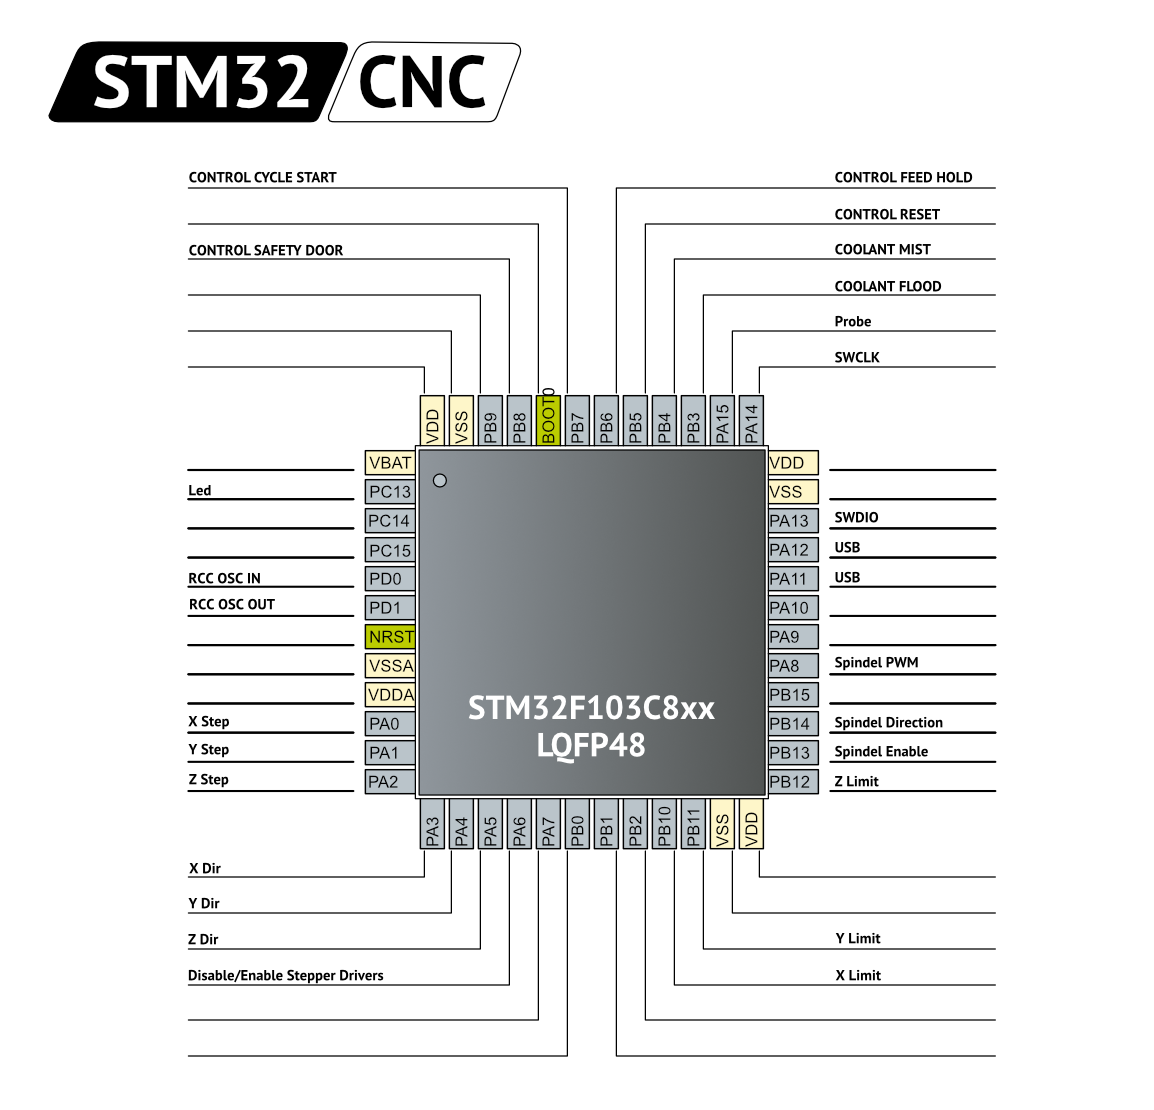
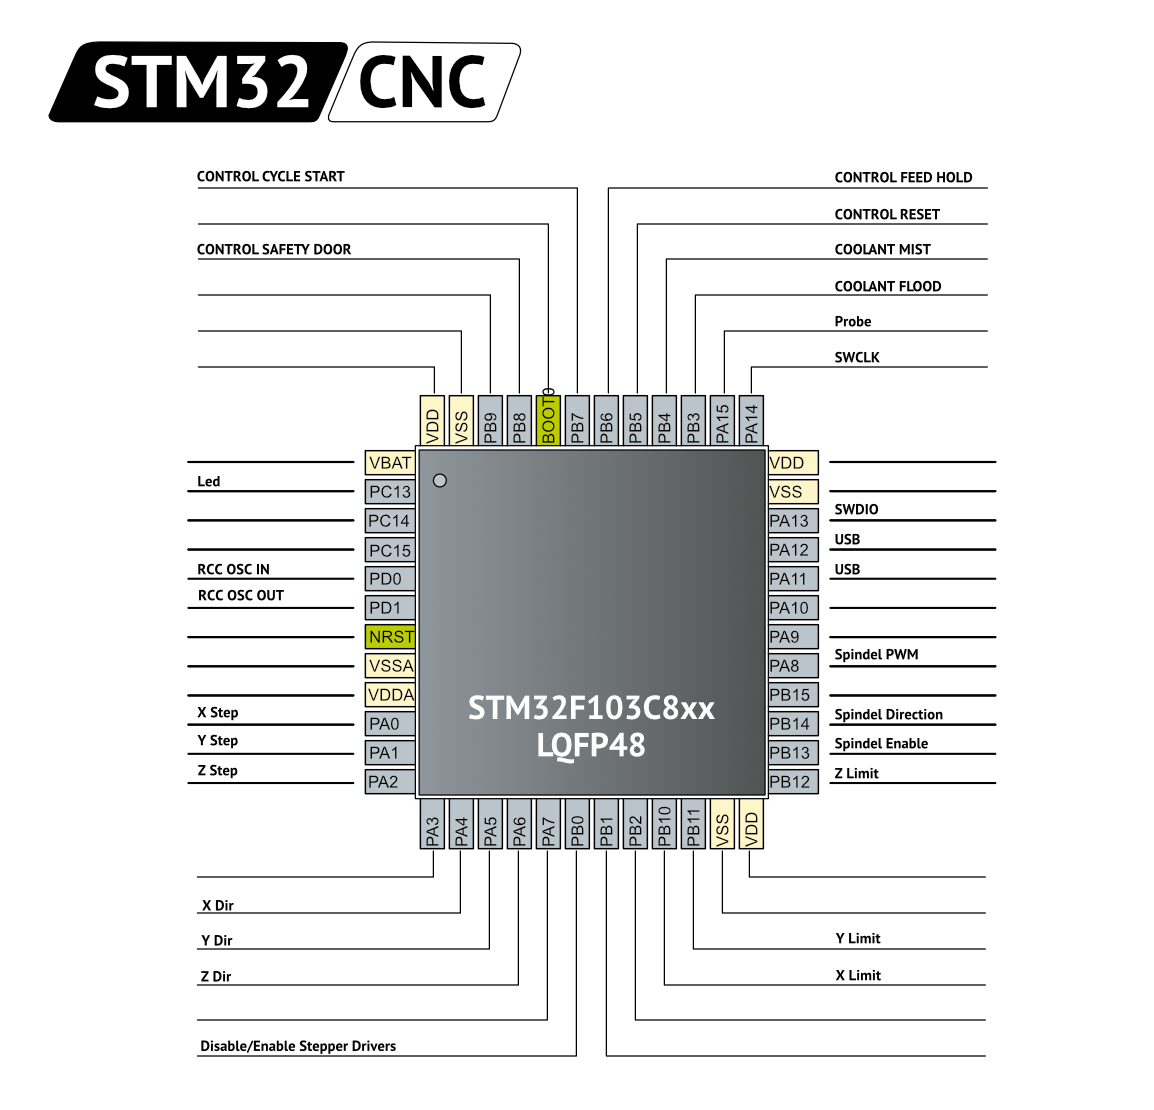
Change pinout. Direction XYZ to GPIOA4,5,6. Enable Stepper to GPIOB0.

diff --git a/Grbl/inc/cpu_map_stm32f103.h b/Grbl/inc/cpu_map_stm32f103.h
@@ -39,15 +39,15 @@
   // Define step direction output pins. NOTE: All direction pins must be on the same port.
   #define DIRECTION_PORT      GPIOA
   #define RCC_DIRECTION_PORT   RCC_APB2Periph_GPIOA
-  #define X_DIRECTION_BIT   3  
-  #define Y_DIRECTION_BIT   4  
-  #define Z_DIRECTION_BIT   5
+  #define X_DIRECTION_BIT   4
+  #define Y_DIRECTION_BIT   5  
+  #define Z_DIRECTION_BIT   6
   #define DIRECTION_MASK    ((1<<X_DIRECTION_BIT)|(1<<Y_DIRECTION_BIT)|(1<<Z_DIRECTION_BIT)) // All direction bits
 
   // Define stepper driver enable/disable output pin.
-  #define STEPPERS_DISABLE_PORT   GPIOA
-  #define RCC_STEPPERS_DISABLE_PORT RCC_APB2Periph_GPIOA
-  #define STEPPERS_DISABLE_BIT    6  
+  #define STEPPERS_DISABLE_PORT   GPIOB
+  #define RCC_STEPPERS_DISABLE_PORT RCC_APB2Periph_GPIOB
+  #define STEPPERS_DISABLE_BIT    0
   #define STEPPERS_DISABLE_MASK   (1<<STEPPERS_DISABLE_BIT)
   #define SetStepperDisableBit() GPIO_SetBits(STEPPERS_DISABLE_PORT,STEPPERS_DISABLE_MASK)
   #define ResetStepperDisableBit() GPIO_ResetBits(STEPPERS_DISABLE_PORT,STEPPERS_DISABLE_MASK)

diff --git a/README.md b/README.md
@@ -4,7 +4,7 @@
 - https://github.com/usbcnc/grbl
 - https://github.com/robomechs/6-AXIS-USBCNC-GRBL
 
-This repository is based on native GRBL 1.1f.
+This repository is based on native GRBL 1.1h.
 
 Used:
 

diff --git a/CHANGELOG.md b/CHANGELOG.md
@@ -4,6 +4,7 @@
 
 - To base code GRBL version 1.1h
 - Enable/Disable spindle Pin works now
+- Change pinout. Direction XYZ to GPIOA4,5,6. Enable Stepper to GPIOB0.
 
 ## [0.3]
 
